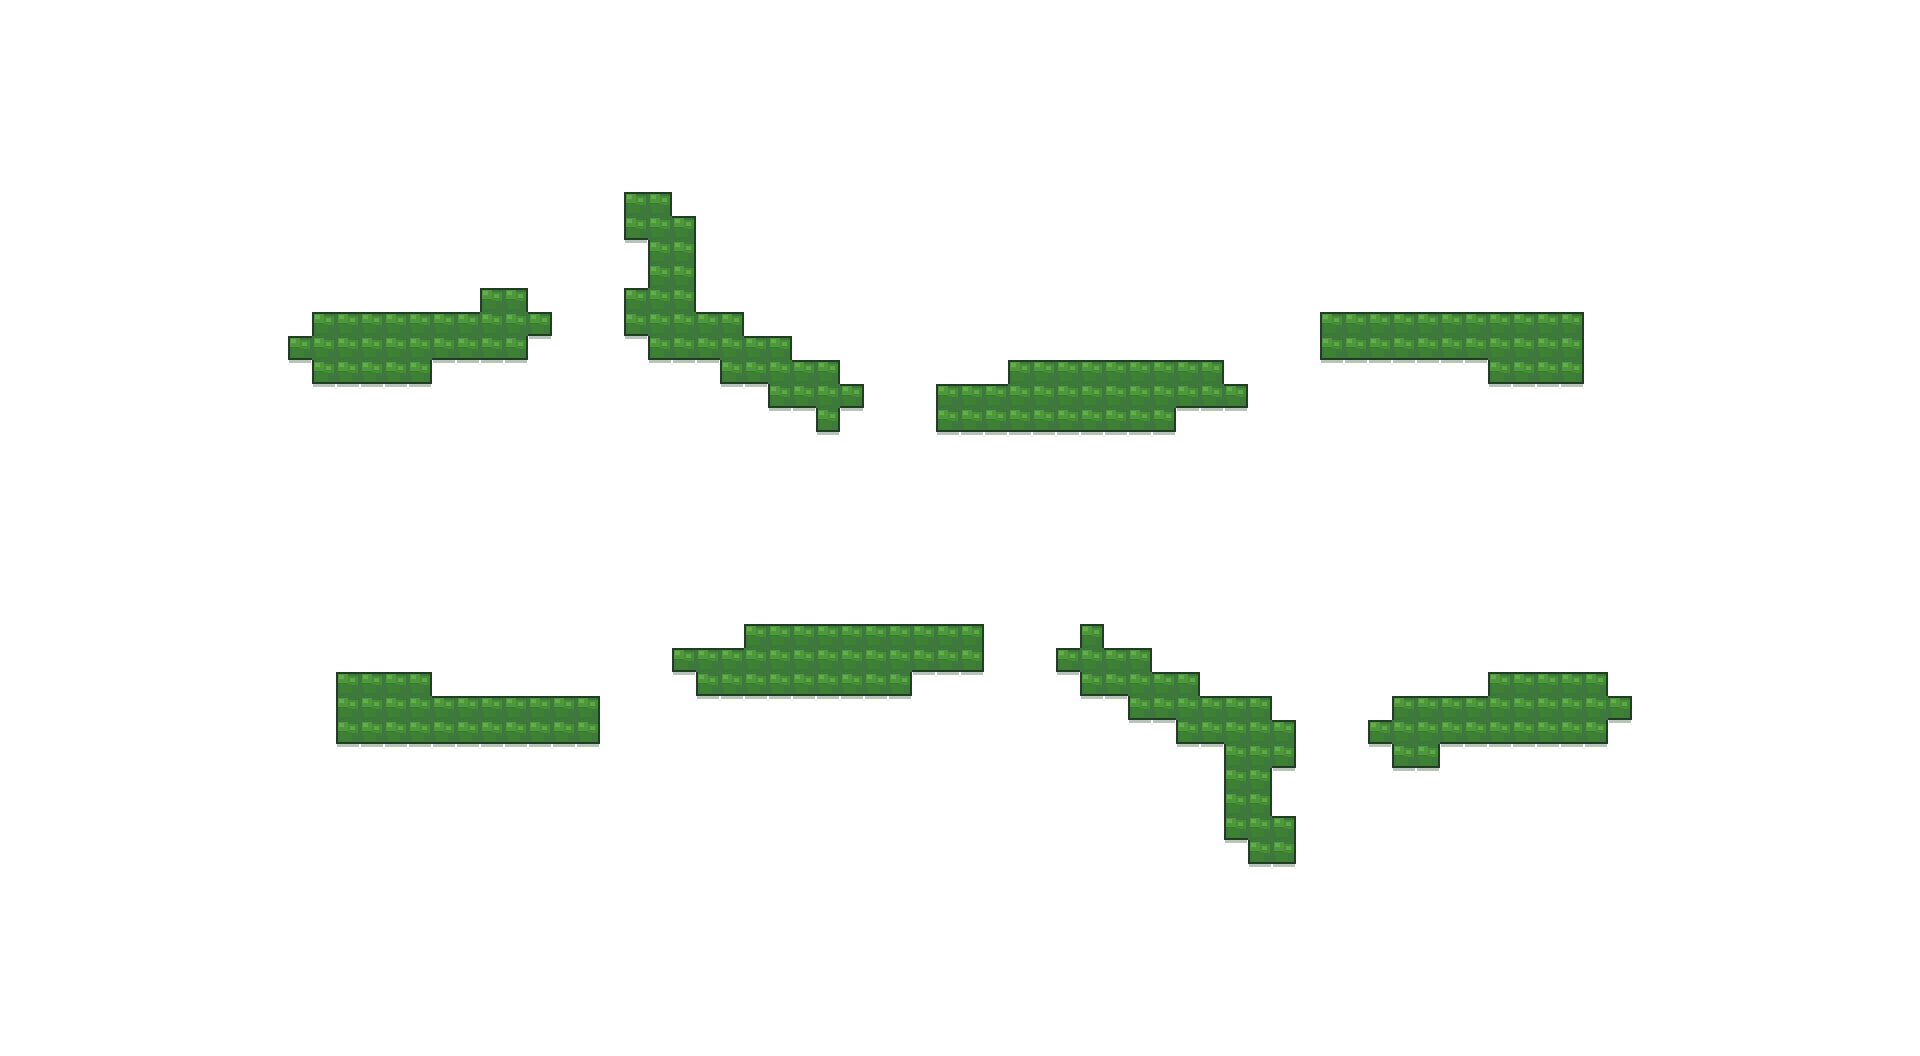
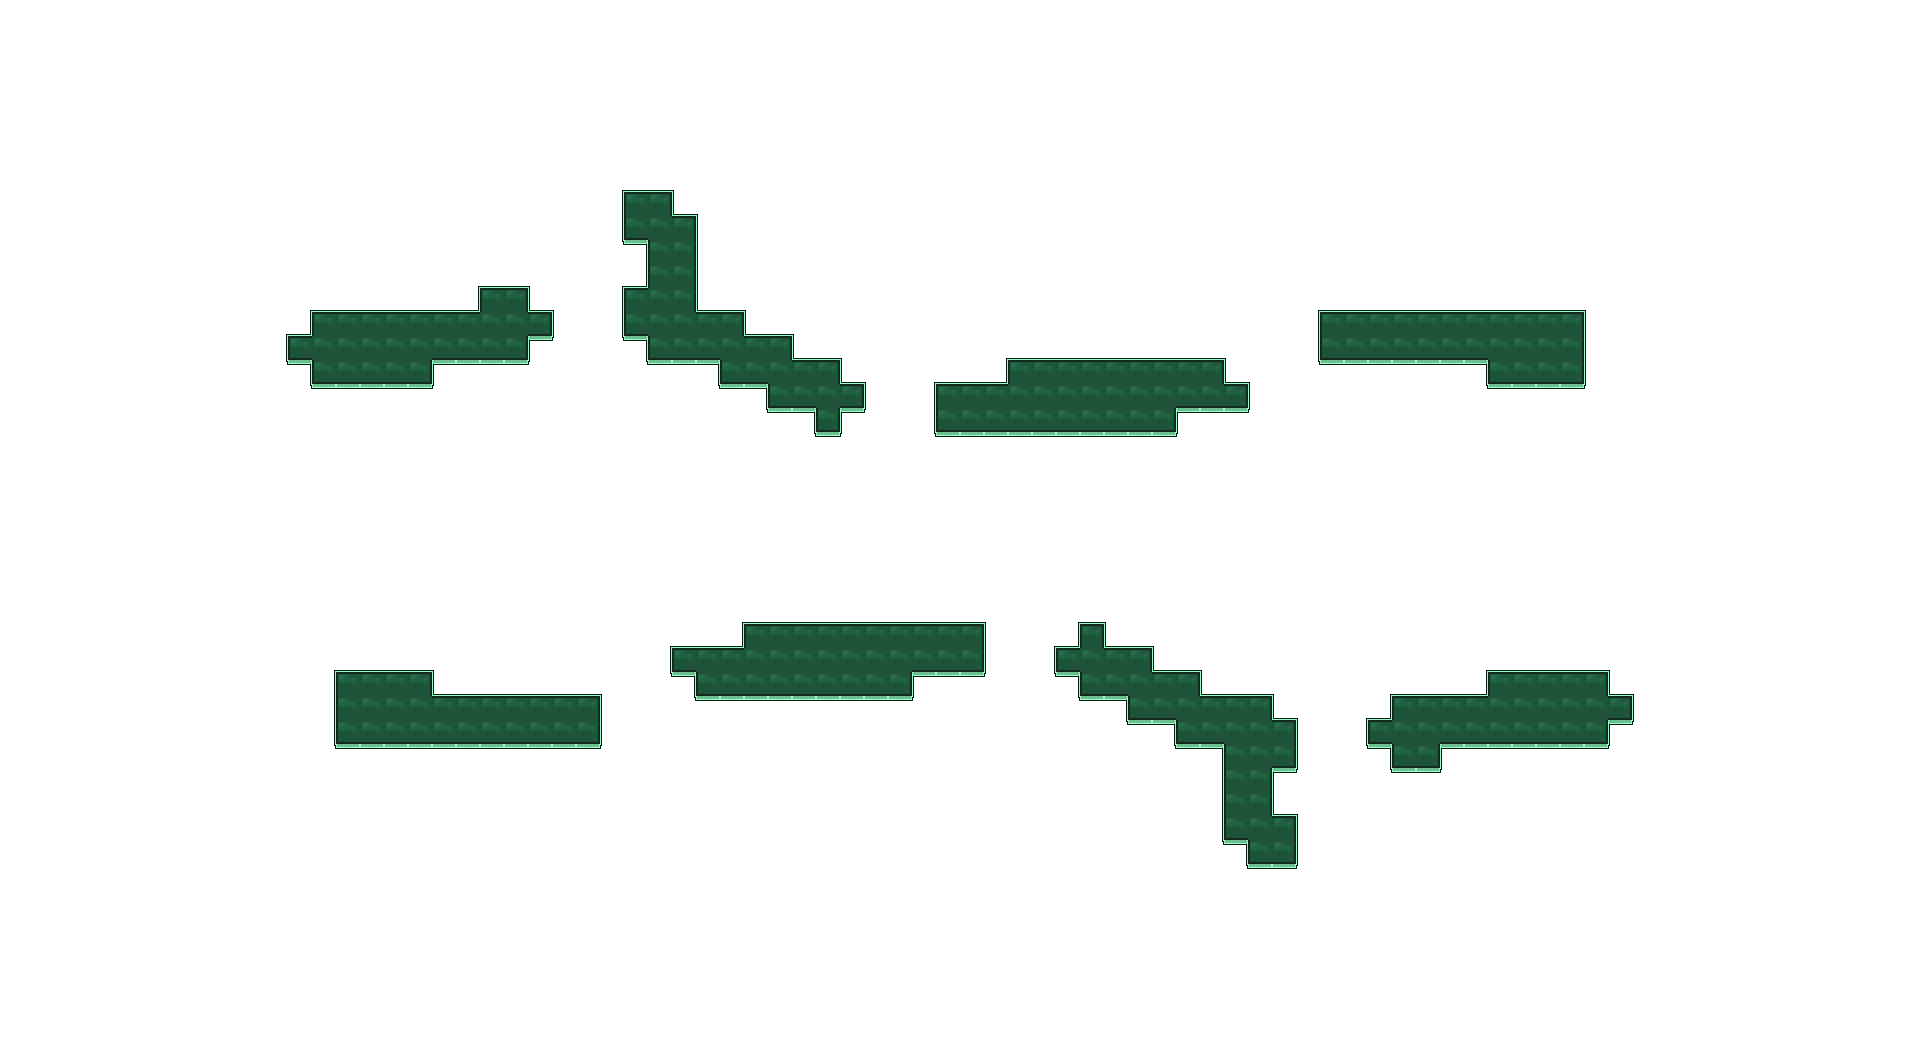
부쉬를 짙은 청록+밝은 윤곽으로 구분, 숨은 적은 이름·체력바도 숨김
Claude-Session: https://claude.ai/code/session_01CTycXSNtqEpKLb11niWLUo

diff --git a/src/world.js b/src/world.js
@@ -419,7 +419,7 @@ export class WorldScene extends Phaser.Scene {
       buildBrawlFloor(this); buildObstacleTextures(this);
       const floor = this.add.image(0, 0, 'floor-brawl').setOrigin(0).setScale(BU / TILE).setDepth(-98);
       const obs = OBSTACLES.map((o) => { const k = 'ob-' + o.k, img = this.add.image(o.x * BU, (o.y + o.hh) * BU - 2, k).setOrigin(0.5, k === 'ob-pillar' ? 0.9 : k === 'ob-wall' ? 0.82 : 0.9).setScale(BU / TILE).setDepth((o.y + o.hh) * BU); return img; });
-      const bush = this.add.image(0, 0, 'brawl-bush').setOrigin(0).setScale(BU / TILE).setDepth(900000).setAlpha(0.55); // 캐릭터 위에 덮어 숨김
+      const bush = this.add.image(0, 0, 'brawl-bush').setOrigin(0).setScale(BU / TILE).setDepth(900000).setAlpha(0.75); // 캐릭터 위에 덮어 숨김
       this.brawlObjs = [floor, ...obs, bush];
     }
     if (!this.brawlObjs || this._brawlOn === on) return;
@@ -568,6 +568,7 @@ export class WorldScene extends Phaser.Scene {
       const bk = Math.max(0, 1 - (now - v.bump) / 250);
       v.coinIcon.setVisible(shown > 0).setPosition(bx0 + bw + (p.sp > 0 ? 40 : 18), by + 7).setDepth(v.y + 1).setScale(1.5 * (1 + 0.45 * bk));
       v.coinTxt.setVisible(shown > 0).setText(`×${shown}`).setPosition(bx0 + bw + (p.sp > 0 ? 52 : 30), by + 7).setDepth(v.y + 1);
+      { const hid = !!p.sl && !!this.focusId && !me && !(p.tm && p.tm === this.views.get(this.focusId)?.p?.tm); v.bar.setVisible(!hid); v.name.setVisible(!hid); v.shoe.setVisible(!hid && p.sp > 0); if (hid) { v.coinIcon.setVisible(false); v.coinTxt.setVisible(false); } } // 은신·부쉬에 숨은 적은 이름·체력바도 숨김
     }
     this.coins.update(now);
     this.items.update(now);
